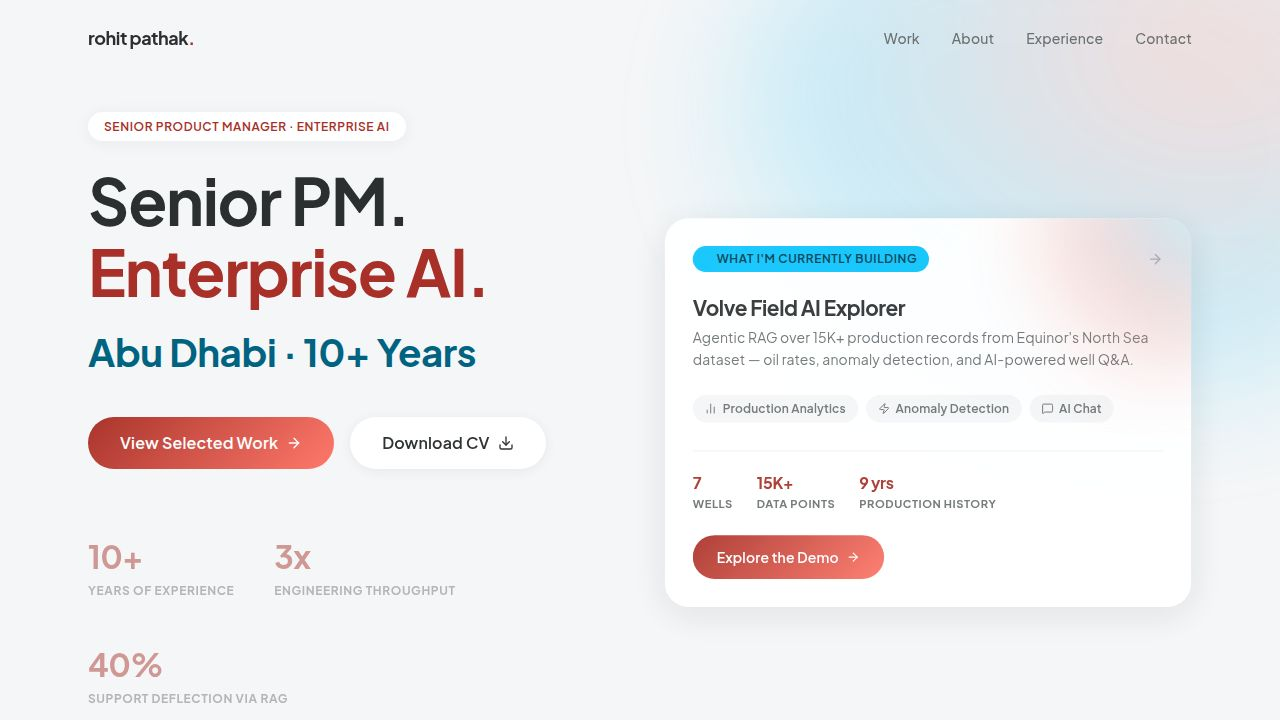
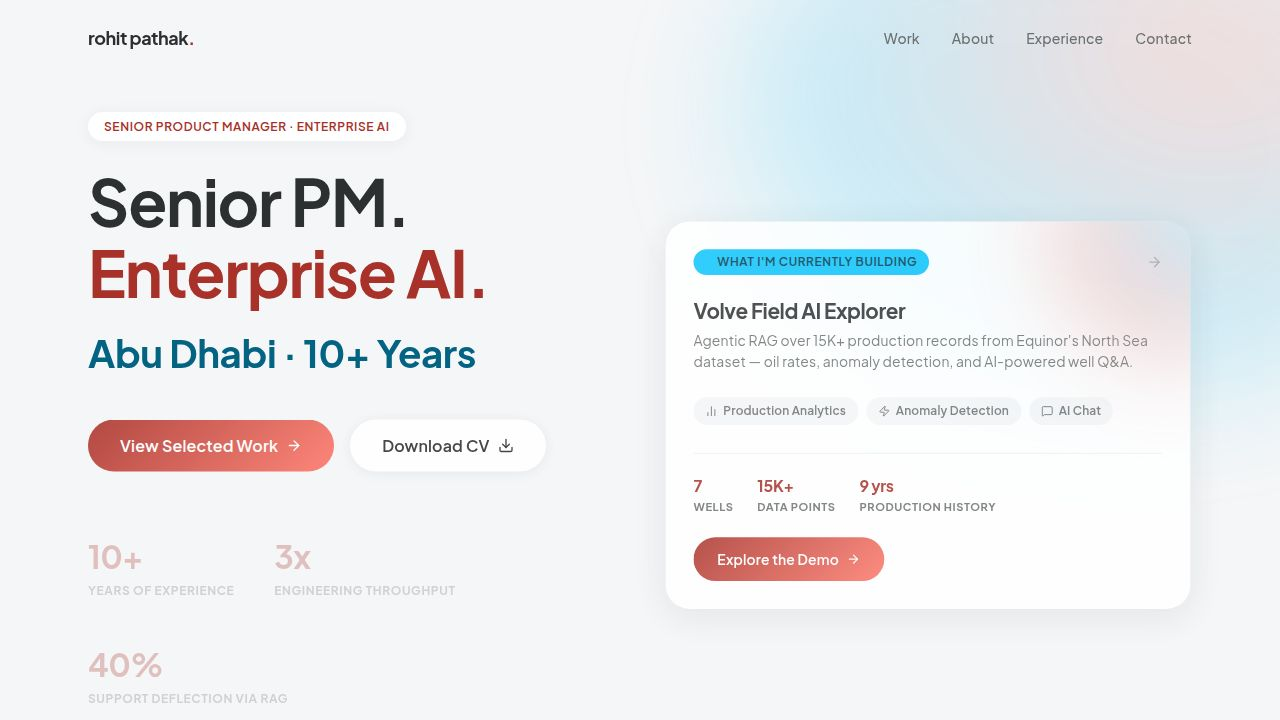
Update backend deployment and proxy configuration
Add `langgraph` to `geo_rag/requirements.txt`, configure `geo_rag/railway.toml` for deployment, and update `server/routes.ts` to use an environment variable for the upstream API URL.

Replit-Commit-Author: Agent
Replit-Commit-Session-Id: 4cf57e2c-8865-49d6-8813-4c01c2f980c4
Replit-Commit-Checkpoint-Type: full_checkpoint
Replit-Commit-Event-Id: ee9567e4-eba6-4423-80f2-1c081fae46ff
Replit-Commit-Screenshot-Url: https://storage.googleapis.com/screenshot-production-us-central1/50377917-ed78-444a-b143-b4c062eee331/4cf57e2c-8865-49d6-8813-4c01c2f980c4/VvnO1ou
Replit-Helium-Checkpoint-Created: true

diff --git a/server/routes.ts b/server/routes.ts
@@ -2,7 +2,10 @@ import type { Express } from "express";
 import { createServer, type Server } from "http";
 import { createProxyMiddleware } from "http-proxy-middleware";
 
-const FASTAPI_BASE = "http://localhost:8000/api";
+// In dev this is localhost:8000 (the Geo RAG API workflow).
+// In production set GEO_RAG_API_URL to your Railway service URL, e.g.
+//   https://geo-rag-api-production.up.railway.app
+const GEO_RAG_UPSTREAM = (process.env.GEO_RAG_API_URL || "http://localhost:8000").replace(/\/$/, "");
 
 export async function registerRoutes(
   httpServer: Server,
@@ -14,7 +17,7 @@ export async function registerRoutes(
     try {
       const controller = new AbortController();
       const timer = setTimeout(() => controller.abort(), 300_000); // 5-min hard limit
-      const upstream = await fetch(`${FASTAPI_BASE}/chat`, {
+      const upstream = await fetch(`${GEO_RAG_UPSTREAM}/api/chat`, {
         method: "POST",
         headers: { "Content-Type": "application/json" },
         body: JSON.stringify(req.body),
@@ -28,13 +31,13 @@ export async function registerRoutes(
     }
   });
 
-  // All other /api/geo/* requests (GET) are proxied to FastAPI.
-  // Express strips the mount prefix before passing to the middleware, so
-  // req.url arrives as e.g. "/health" — we prepend "/api/" to match FastAPI routes.
+  // All other /api/geo/* requests are proxied to the FastAPI service.
+  // Express strips the /api/geo mount prefix before passing to the middleware,
+  // so we prepend /api/ to match FastAPI's routes.
   app.use(
     "/api/geo",
     createProxyMiddleware({
-      target: "http://localhost:8000",
+      target: GEO_RAG_UPSTREAM,
       changeOrigin: true,
       pathRewrite: { "^/": "/api/" },
     })